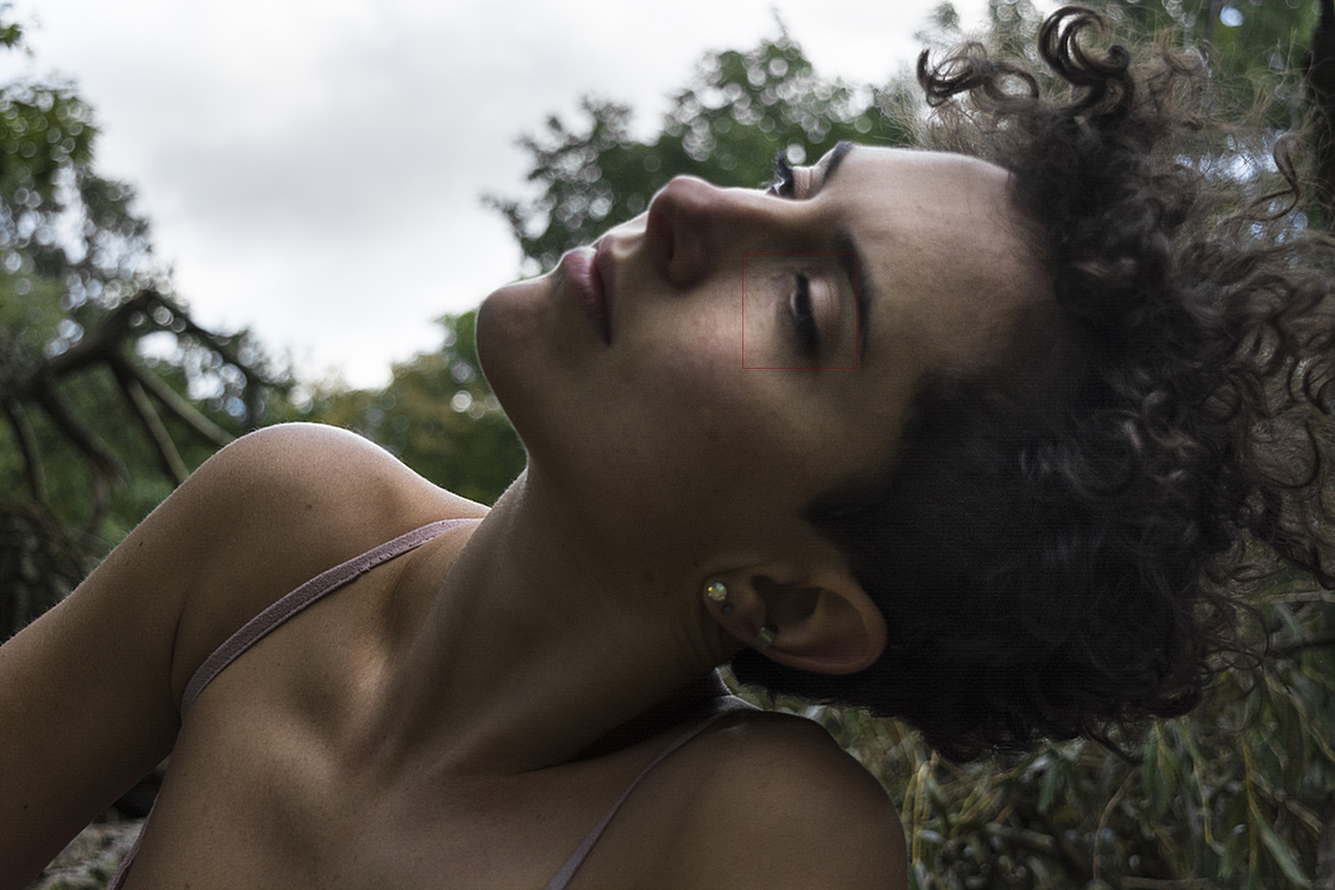
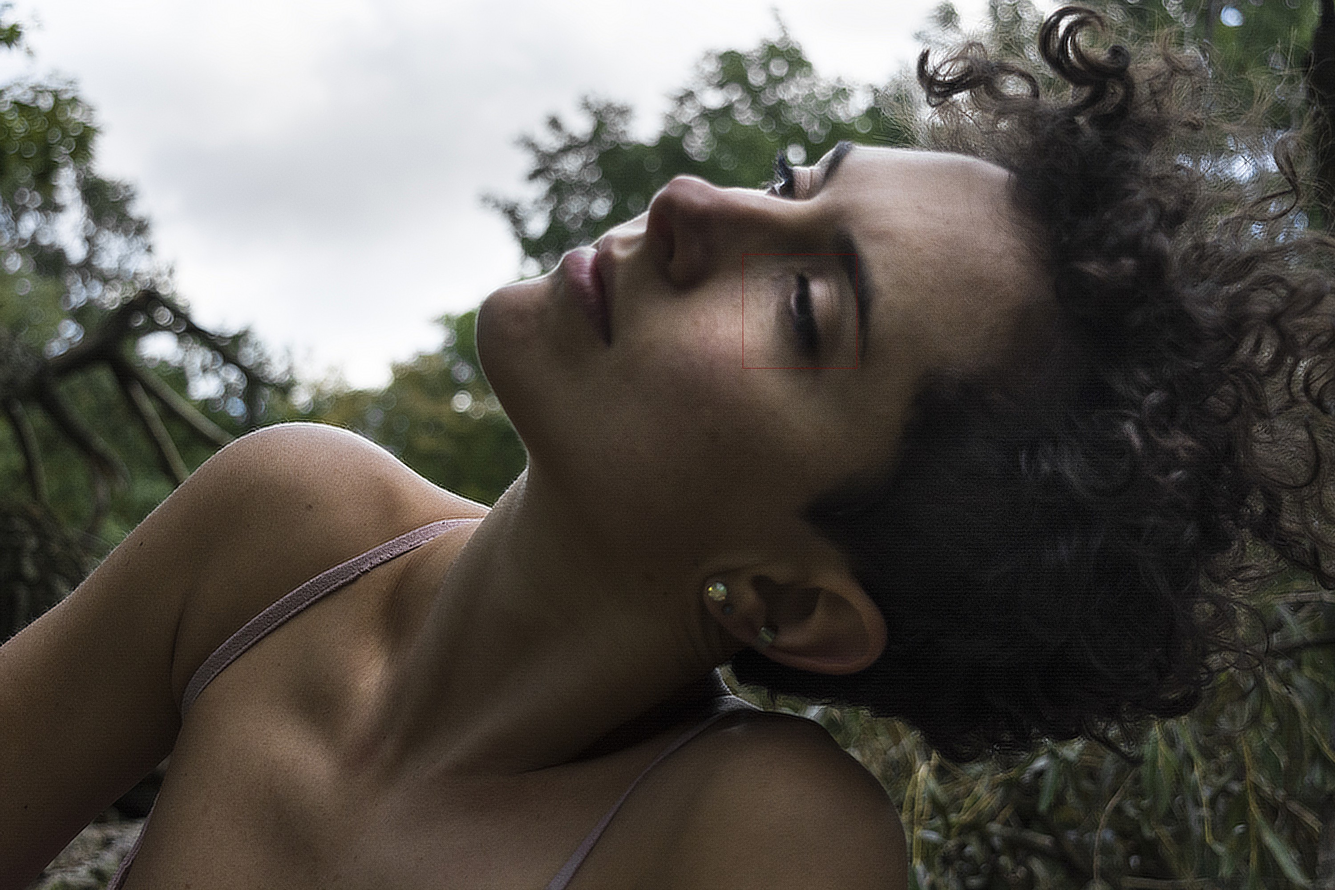
Switch to a more economic way to compute the gradient, following Antonin Chambolle's method
Process the image with channels between 0 and 1 instead of 0 and 255 for a better accuracy

diff --git a/richardson_lucy_deconvolution.py b/richardson_lucy_deconvolution.py
@@ -514,7 +514,7 @@ def _update_both_MM(u, image, psf, lambd, iterations, mask_u, mask_i, epsilon):
         for itt in range(5):
             # Image update
             epsilon = best_epsilon(u, lambd) * 1.001
-            gradu = lambd * _convolve_image(u, image, psf) + gradTVEM(u, ut, epsilon, tau)
+            gradu = lambd * _convolve_image(u, image, psf) + utils.gradTVEM(u, ut, epsilon, tau)
             dt = u_step * (np.amax(u) + 1 / u.size) / np.amax(np.abs(gradu) + 1e-31)
             u -= dt * gradu
 
@@ -698,7 +698,9 @@ def deblur_module(pic: np.ndarray,
 
     # Backup ICC color profile
     icc_profile = pic.info.get("icc_profile")
-    pic = np.ascontiguousarray(pic, np.float32)
+
+    # Assuming 8 bits input, we rescale the RGB values betweem 0 and 1
+    pic = np.ascontiguousarray(pic, np.float32) / 255
 
     methods_collection = {
         "fast": richardson_lucy_PAM,
@@ -727,9 +729,9 @@ def deblur_module(pic: np.ndarray,
 
     if denoise:
         # TODO : http://ieeexplore.ieee.org/stamp/stamp.jsp?arnumber=6572468
-        u = denoise_tv_chambolle(pic, weight=noise_damping, multichannel=True)
-    else:
-        u = pic.copy()
+        pic = denoise_tv_chambolle(pic, weight=noise_damping, multichannel=True)
+
+    u = pic.copy()
 
     iter_background = 0
     iter_mask = 0
@@ -758,9 +760,14 @@ def deblur_module(pic: np.ndarray,
         print("\n===== REGULAR DECONVOLUTION =====")
         u, psf = richardson_lucy_PAM(pic, u, psf, noise_damping, deblur_strength, blind=False, epsilon=epsilon)
 
-    np.clip(u, epsilon, 255 - epsilon, out=u)
+    np.clip(u, 0, 1, out=u)
 
-    u = pic - effect_strength * (pic - u)
+    if denoise:
+        # TODO : http://ieeexplore.ieee.org/stamp/stamp.jsp?arnumber=6572468
+        u = denoise_tv_chambolle(pic, weight=noise_damping, multichannel=True)
+
+    # Convert back into 8 bits RGB
+    u = (pic - effect_strength * (pic - u)) * 255
 
     if debug and mask:
         # Print the mask in debug mode
@@ -825,9 +832,9 @@ if __name__ == '__main__':
 
     picture = "DSC1168.jpg"
     with Image.open(join(source_path, picture)) as pic:
-        mask = [1143, 1143 + 512, 3338, 3338 + 512]
+        mask = [631 + 512, 631 + 512 + 1024, 2826 + 512, 2826 + 512 + 1024]
 
-        deblur_module(pic, picture + "test-v7-gradient-alternatif-3", dest_path, "auto", 13, 0.004, 0,
+        deblur_module(pic, picture + "test-v7-gradient-alternatif-3-2", dest_path, "auto", 13, 0.05, 0,
                       mask=mask,
                       denoise=False,
                       refine=True,
